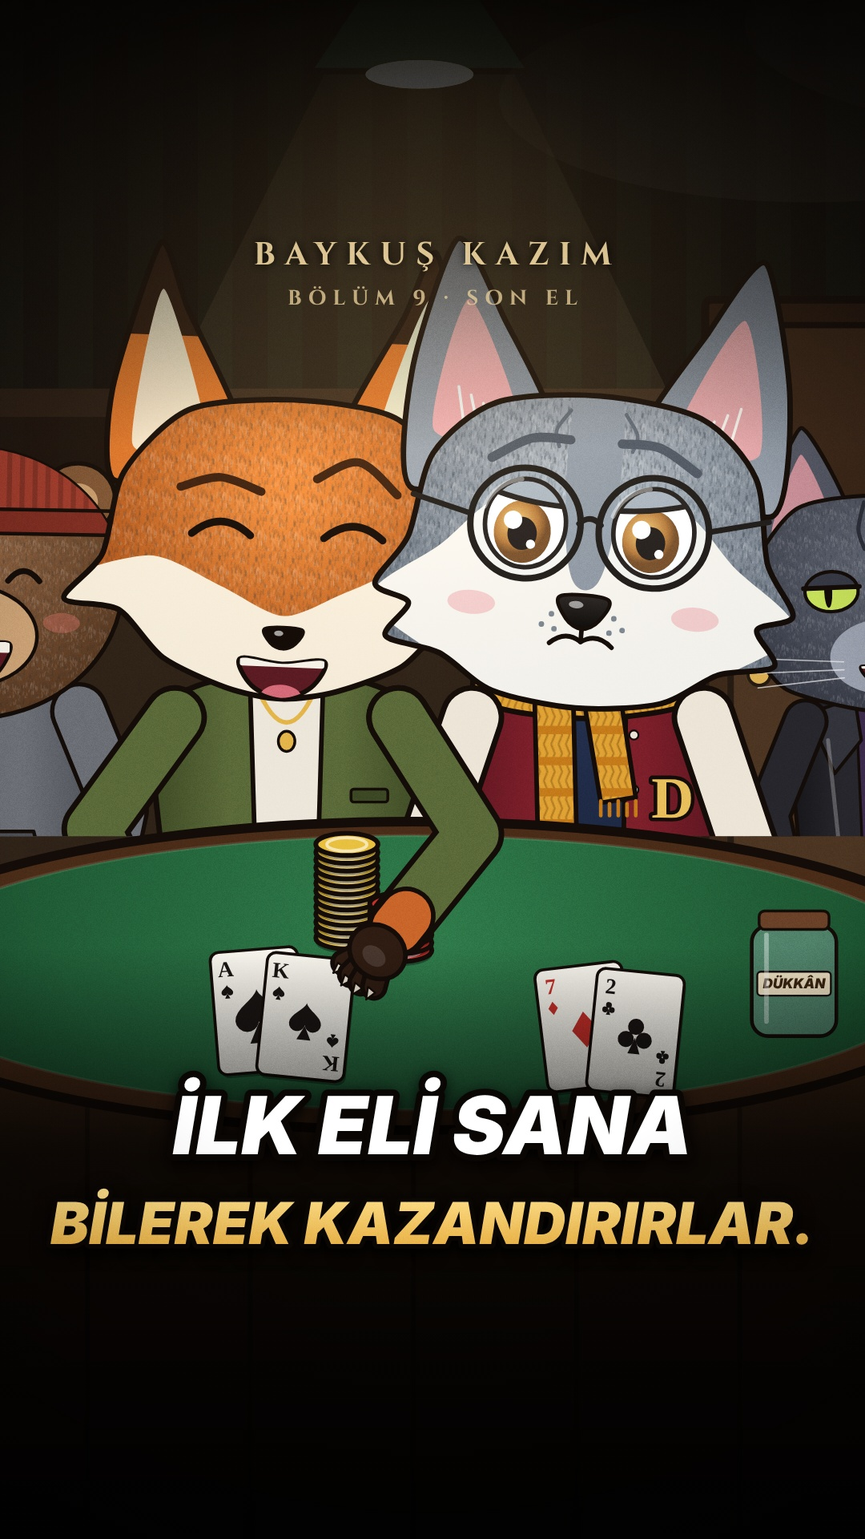
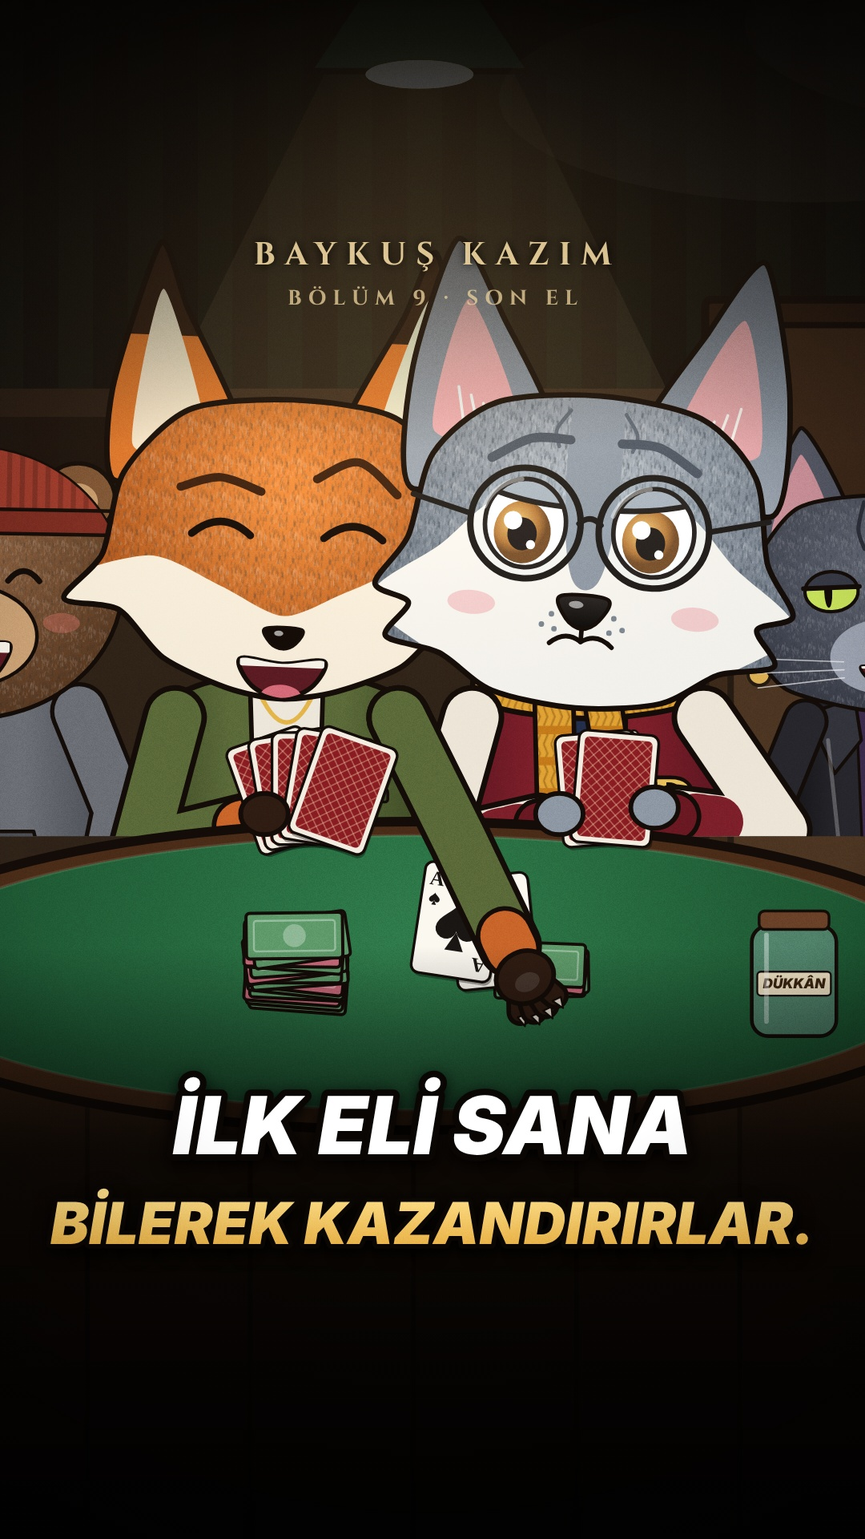
Son El: kıraathane usulü oyun (kartlar elde yelpaze, sırayla ortaya atılır, masada kâğıt para); kapak güncellendi; müziksiz ana sürüm
Claude-Session: https://claude.ai/code/session_01TWA48h9Ztcdy2RcNUnCxUo

Changed region(s): [[0.0611, 0.4688, 0.9472, 0.7188]]

diff --git a/ortak/ara-sahneler-8.js b/ortak/ara-sahneler-8.js
@@ -74,75 +74,115 @@ function cardTable(x = 360, y = 930, rx = 360) {
   c.save(); c.globalAlpha = .12; ell(x, y - 2, rx * .92, rx * .24, null, '#e8e0c8', 2); c.restore();
 }
 
-// ---------- masa düzeni: Tilki (solda) ve Demir (sağda) masanın arkasında. Kollar eklem çözümüyle masaya uzanır ----------
-// Bedenler masanın uzak kenarında kesilir; masaya uzanan kollar masa çizildikten sonra yeniden çizilir (çuhanın üstünde görünsün).
+// ---------- masa düzeni (kıraathane usulü): Tilki solda, Demir sağda, masanın arkasında. Kartlar ELDE yelpaze;
+// sırası gelen kartını ortadaki yığına açık atar. Masada kâğıt para. Kollar eklem çözümüyle; masaya uzanan kol çuhanın üstünde çizilir.
 const MASA = { TX: 280, DX: 470, Y: 1085, SC: .58, EDGE: 842 };
 const toL = (X0, x, y) => ({ x: (x - X0) / MASA.SC, y: (y - MASA.Y) / MASA.SC });   // dünya → karakter yerel
+const PILE = [398, 898], POT = [440, 930];                                         // ortadaki kart yığını ve para
+const FAN = { demir: { L: [452, 832], R: [512, 828], c: [482, 812] }, tilki: { L: [266, 832], R: [326, 828], c: [296, 812] } };
+// Kâğıt para destesi (₺): n adet, hafif dağınık
+function cashPile(x, y, n, sc = 1) {
+  for (let i = 0; i < n; i++) { const r = (hash(i * 3 + x) - .5) * .3, yy = y - i * 3.2 * sc;
+    c.save(); c.translate(x + (hash(i + x) - .5) * 8 * sc, yy); c.rotate(r); c.scale(sc, sc);
+    rr(-38, -18, 76, 36, 3, i % 3 === 2 ? '#c96a7a' : '#5f9a6a', OL, 2.5); rr(-32, -12, 64, 24, 2, null, 'rgba(255,255,255,.35)', 1.5); ell(0, 0, 9, 9, 'rgba(255,255,255,.3)', null); c.restore(); }
+}
+// Elde tutulan kart yelpazesi (arkası bize dönük)
+function cardFan(cx, cy, n, sc = .42, spread = .17) {
+  for (let j = 0; j < n; j++) { const a = (j - (n - 1) / 2) * spread; playCard(cx + Math.sin(a) * 70 * sc * 2, cy - Math.cos(a) * 26 * sc * 2 + 26 * sc * 2, a, sc, null); }
+}
+// Atılan kart: elden (x0,y0) yığına (PILE) uçar; f 0..1; açık yüzüyle düşer
+function flyCard(x0, y0, f, face, rot0 = 0, rot1 = 0, dx = 0, dy = 0) {
+  const e = ease(f), x = lerp(x0, PILE[0] + dx, e), y = lerp(y0, PILE[1] + dy, e) - Math.sin(f * PI) * 40;
+  playCard(x, y, lerp(rot0, rot1, e) + Math.sin(f * PI) * .6, lerp(.44, .42, e), f > .45 ? face : null);
+}
 function masaKur(t, o) {
   backRoom(t);
+  const F = o.fans || {};
+  // kol hedefleri: yelpaze tutan patiler göğüs/masa kenarı hizasında; o.demirL/o.tilkiR verilirse (atış/çekiş) onlar
+  const DLt = o.demirL || (F.demir ? Object.assign(toL(MASA.DX, ...FAN.demir.L), { hand: 'relax' }) : { x: -148, y: -272, hand: 'relax' });
+  const DRt = o.demirR || (F.demir ? Object.assign(toL(MASA.DX, ...FAN.demir.R), { hand: 'relax' }) : { x: 148, y: -272, hand: 'relax' });
+  const TLt = F.tilki ? Object.assign(toL(MASA.TX, ...FAN.tilki.L), { hand: 'relax' }) : { x: -150, y: -300, hand: 'relax' };
+  const TRt = o.tilkiR || (F.tilki ? Object.assign(toL(MASA.TX, ...FAN.tilki.R), { hand: 'relax' }) : { x: 150, y: -300, hand: 'relax' });
   c.save(); c.beginPath(); c.rect(-1000, -300, 2720, MASA.EDGE + 300); c.clip();
   if (o.crowd !== false) {
     c.save(); c.translate(80, 1010); c.scale(.45, .45); gangBody('ayi', { t, laugh: o.ayi || 0, lookX: .5, tilt: Math.sin(t * 6) * .03 * (o.ayi || 0) }); c.restore();
     c.save(); c.translate(655, 1000); c.scale(.42, .42); gangBody('kedi', { t, laugh: o.kedi || 0, lookX: -.5, tilt: -.04 }); c.restore();
   }
-  const TR = o.tilkiR || { x: 150, y: -300, hand: 'relax' }, TL = { x: -150, y: -300, hand: 'relax' };
-  c.save(); c.translate(MASA.TX, MASA.Y); c.scale(MASA.SC, MASA.SC); gangBody('tilki', { t, laugh: o.tl ?? .25, lookX: o.tlook ?? .6, lookY: .2, tilt: .04, L: TL, R: TR }); c.restore();
-  const DR = o.demirR || { x: 148, y: -272, hand: 'relax' }, DL = o.demirL || { x: -148, y: -272, hand: 'relax' };
-  c.save(); c.translate(MASA.DX, MASA.Y); c.scale(MASA.SC, MASA.SC); drawWolf(Object.assign({}, o.demir, { L: DL, R: DR })); c.restore();
+  c.save(); c.translate(MASA.TX, MASA.Y); c.scale(MASA.SC, MASA.SC); gangBody('tilki', { t, laugh: o.tl ?? .25, lookX: o.tlook ?? .6, lookY: .2, tilt: .04, L: TLt, R: TRt }); c.restore();
+  c.save(); c.translate(MASA.DX, MASA.Y); c.scale(MASA.SC, MASA.SC); drawWolf(Object.assign({}, o.demir, { L: DLt, R: DRt })); c.restore();
   c.restore();
   cardTable();
   if (o.items) o.items();
   // masaya uzanan kollar çuhanın üstünde
-  if (o.tilkiR) { c.save(); c.translate(MASA.TX, MASA.Y); c.scale(MASA.SC, MASA.SC); gangArm(GANG.tilki, 1, TR, GANG.tilki.sw); c.restore(); }
-  if (o.demirR) { c.save(); c.translate(MASA.DX, MASA.Y); c.scale(MASA.SC, MASA.SC); wolfArm(1, DR); c.restore(); }
-  if (o.demirL) { c.save(); c.translate(MASA.DX, MASA.Y); c.scale(MASA.SC, MASA.SC); wolfArm(-1, DL); c.restore(); }
+  const onTable = tg => tg.y > (MASA.EDGE - MASA.Y) / MASA.SC + 8;
+  // yalnızca bilerek masaya uzatılan kollar (atış/çekiş) yeniden çizilir; boştaki kollar masanın arkasında kalır
+  if (o.tilkiR && onTable(TRt)) { c.save(); c.translate(MASA.TX, MASA.Y); c.scale(MASA.SC, MASA.SC); gangArm(GANG.tilki, 1, TRt, GANG.tilki.sw); c.restore(); }
+  if (o.demirL && onTable(DLt)) { c.save(); c.translate(MASA.DX, MASA.Y); c.scale(MASA.SC, MASA.SC); wolfArm(-1, DLt); c.restore(); }
+  if (o.demirR && onTable(DRt)) { c.save(); c.translate(MASA.DX, MASA.Y); c.scale(MASA.SC, MASA.SC); wolfArm(1, DRt); c.restore(); }
+  // eldeki yelpazeler (patiler kartları önden kavrar)
+  if (F.tilki) { cardFan(...FAN.tilki.c, F.tilki); for (const [k2, pt] of [['L', TLt], ['R', TRt]]) if (!onTable(pt) && !(k2 === 'R' && o.tilkiR)) { const w = FAN.tilki[k2]; ell(w[0], w[1] - 4, 15, 13, GANG.tilki.paw, OL, 3); } }
+  if (F.demir) { cardFan(...FAN.demir.c, F.demir); for (const [k2, pt] of [['L', DLt], ['R', DRt]]) if (!onTable(pt) && !(k2 === 'L' && o.demirL) && !(k2 === 'R' && o.demirR)) { const w = FAN.demir[k2]; ell(w[0], w[1] - 4, 15, 13, WOLF_C.paw, OL, 3); } }
   if (o.over) o.over();
 }
-const POT = [418, 905];   // Tilki'nin sağ kolu ve Demir'in sol kolu dirsek bükerek yetişir
+// atış kolu: ph 0..1 (gidiş-dönüş), elden yığına
+const throwArm = (X0, from, ph, hand = 'relax') => Object.assign(toL(X0, lerp(from[0], PILE[0] + 10, Math.sin(ph * PI)), lerp(from[1], PILE[1] + 6, Math.sin(ph * PI))), { hand });
 
-// ---------- 0) AÇILIŞ (sessiz): gece 01:20, arka oda. Tilki kart dağıtır, Demir dükkân kavanozunu masaya koyar ----------
+// ---------- 0) AÇILIŞ (sessiz): gece 01:20, arka oda. Demir dükkân parasını masaya koyar; Tilki kartları dağıtır, Demir elini toplar ----------
 SCENES.kart_acilis = S => {
   const t = S.t, lt = S.lt;
   cam(lerp(360, 380, ss(0, 7, lt)), lerp(820, 860, ss(0, 7, lt)), lerp(1.0, 1.28, ease(ss(0, 7, lt))));
-  // Tilki dağıtır: sağ patisi önünde ileri geri (her kart bir savuruş)
-  const deal = [1.0, 1.7, 2.4], swing = lt < 3.0 ? Math.max(0, Math.sin(((lt - .8) % .7) / .7 * PI)) : 0;
-  const tilkiR = toL(MASA.TX, lerp(340, 372, swing), lerp(905, 898, swing)); tilkiR.hand = 'grab';
-  // Demir kavanozu taşır ve masaya bırakır
-  const JAR = [592, 940], lift = ease(ss(3.6, 4.6, lt)), back = ss(5.0, 5.8, lt);
+  // 1) Demir kavanozu sağ patisiyle masaya bırakır (0.8–2.2)
+  const JAR = [592, 940], lift = ease(ss(.8, 1.7, lt)), back = ss(1.9, 2.4, lt);
   const jarPos = [lerp(560, JAR[0], lift), lerp(925, JAR[1], lift) - Math.sin(lift * PI) * 40];
-  const demirR = lt > 3.5 && back < 1 ? Object.assign(toL(MASA.DX, lerp(jarPos[0], 600, back), lerp(jarPos[1] - 70, 925, back)), { hand: 'relax' }) : null;
-  masaKur(t, { tilkiR, demirR, tl: .3, ayi: 0, kedi: 0,
-    demir: demirPose('calm', { t, talk: 0, lookX: lt < 3.3 ? -.5 : .3, lookY: .4, blink: (lt % 3.9 < .14) ? 1 : 0, mouth: 4 }),
+  const demirR = lt > .7 && back < 1 ? Object.assign(toL(MASA.DX, lerp(jarPos[0], 512, back), lerp(jarPos[1] - 70, 828, back)), { hand: 'relax' }) : null;
+  // 2) Tilki elindeki desteden Demir'e 5 kart atar (2.5–4.3); 3) Demir kartları toplayıp yelpaze yapar (4.6–5.3)
+  const deal = [2.5, 2.86, 3.22, 3.58, 3.94], picked = ss(4.6, 5.3, lt), dealing = lt > 2.4 && lt < 4.4;
+  const flick = dealing ? Math.max(0, Math.sin(((lt - 2.5) % .36) / .36 * PI)) : 0;
+  const tilkiR = dealing ? Object.assign(toL(MASA.TX, lerp(326, 352, flick), lerp(828, 846, flick)), { hand: 'relax' }) : null;
+  masaKur(t, { demirR, tilkiR, tl: .3, ayi: 0, kedi: 0, fans: { tilki: lt < 2.4 ? 0 : 0, demir: picked > .5 ? 5 : 0 },
+    demir: demirPose('calm', { t, talk: 0, lookX: lt < 2.4 ? .3 : -.4, lookY: .4, blink: (lt % 3.9 < .14) ? 1 : 0, mouth: 4 }),
     items: () => {
-      chipStack(318, 908, 6, '#c8302a', .8); chipStack(286, 920, 4, '#1a1614', .8);
-      deal.forEach((d0, i) => { const f = ease(ss(d0, d0 + .5, lt)); if (lt > d0) playCard(lerp(372, 470 + i * 34, f), lerp(895, 960, f) - Math.sin(f * PI) * 30, lerp(-.6, -.12 + i * .12, f), .48, null); });
+      cashPile(286, 938, 6, .8); cashPile(540, 936, 5, .8);
       moneyJar(jarPos[0], jarPos[1], 1, .62);
-    } });
+      deal.forEach((d0, i) => { const f = ease(ss(d0, d0 + .3, lt)); if (lt > d0 && picked < .5) playCard(lerp(340, 470 + (i - 2) * 6, f) + (picked > 0 ? (482 - 470) * picked : 0), lerp(832, 905 - i * 2, f) - Math.sin(f * PI) * 26 - picked * 80, lerp(-.5, (i - 2) * .05, f), .42, null); });
+    },
+    over: () => { if (lt < 4.4) { playCard(330, 822, -.15, .44, null); playCard(333, 819, -.12, .44, null); ell(326, 824, 15, 13, GANG.tilki.paw, OL, 3); } } }); // Tilki'nin destesi
   letterbox(1, 150);
   typeText('GECE 01:20 · ARKA ODA', ss(.4, 2.0, lt), 40, 1222, '600 22px Cinzel,Georgia,serif', 'rgba(236,224,200,.9)');
 };
 
-// ---------- 1) MASA: 'kazan' ilk el (pot Demir'e kayar, ekip alkışlar); 'kaybet' bir el daha… (Demir iter, Tilki süpürür) ----------
+// ---------- 1) MASA: 'kazan' ilk el (Demir'in kartı büyük, para ona gelir); 'kaybet' her elde Tilki üstüne daha büyüğünü atar ----------
 SCENES.masa = S => {
-  const t = S.t, k = S.k, lt = S.lt, lose = S.phase === 'kaybet';
+  const t = S.t, k = S.k, lose = S.phase === 'kaybet';
   cam(lerp(360, 370, k), lerp(820, 800, k), lerp(1.12, 1.2, ease(k)));
-  const win = lose ? 0 : ss(.15, .45, k), drain = lose ? ss(.05, .9, k) : 0;
-  // kaybet: 2 sn'lik döngü — Demir fiş iter (0–.35), Tilki süpürür (.5–.85)
-  const cyc = lose ? (S.pt % 2) / 2 : 0, push = lose ? Math.sin(ss(0, .35, cyc) * PI) : 0, sweep = lose ? Math.sin(ss(.45, .85, cyc) * PI) : 0;
-  const demirL = lose && push > .02 ? Object.assign(toL(MASA.DX, lerp(480, POT[0] + 22, push), lerp(912, POT[1] + 4, push)), { hand: 'relax' }) : (win > .2 && win < .95 ? Object.assign(toL(MASA.DX, lerp(POT[0] + 26, 488, win), lerp(POT[1], 910, win)), { hand: 'relax' }) : null);
-  const tilkiR = lose && sweep > .02 ? Object.assign(toL(MASA.TX, lerp(350, POT[0] - 12, sweep), lerp(912, POT[1] + 2, sweep)), { hand: 'grab' }) : null;
-  const mood = lose ? (drain > .5 ? 'sad' : 'worry') : (win > .5 ? 'happy' : 'calm');
-  masaKur(t, { demirL, tilkiR, tl: lose ? .3 + .2 * Math.abs(Math.sin(t * 4)) : .25 + win * .2,
+  let demirL = null, tilkiR = null, pile = [], potTo = 0, drain = 0, mood, win = 0;
+  if (!lose) { // Tilki önce atar, Demir büyük kartla keser, para Demir'e
+    const tTh = ss(.08, .26, k), dTh = ss(.3, .48, k); win = ss(.52, .72, k);
+    if (tTh > 0 && tTh < 1) tilkiR = throwArm(MASA.TX, FAN.tilki.R, tTh);
+    if (dTh > 0 && dTh < 1) demirL = throwArm(MASA.DX, FAN.demir.L, dTh);
+    if (win > 0 && win < 1) demirL = Object.assign(toL(MASA.DX, lerp(POT[0] + 10, 520, win), lerp(POT[1], 930, win)), { hand: 'relax' });
+    pile = [[tTh, FAN.tilki.c, ['K', 'c'], -.2, .1, -14, 0], [dTh, FAN.demir.c, ['A', 'h'], .2, -.12, 14, 6]];
+    mood = win > .5 ? 'happy' : (dTh > .5 ? 'hope' : 'calm');
+  } else { // 2.4 sn'lik eller: Demir atar → Tilki üstüne büyüğünü atar → Tilki parayı çeker
+    drain = ss(.05, .9, k); const cyc = (S.pt % 2.4) / 2.4, n = Math.floor(S.pt / 2.4);
+    const dTh = ss(.04, .26, cyc), tTh = ss(.32, .54, cyc), pull = ss(.6, .92, cyc);
+    if (dTh > 0 && dTh < 1) demirL = throwArm(MASA.DX, FAN.demir.L, dTh);
+    if (tTh > 0 && tTh < 1) tilkiR = throwArm(MASA.TX, FAN.tilki.R, tTh);
+    if (pull > 0 && pull < 1) tilkiR = Object.assign(toL(MASA.TX, lerp(POT[0] - 6, 330, pull), lerp(POT[1], 934, pull)), { hand: 'grab' });
+    const dc = [['7', 'd'], ['9', 'c'], ['5', 'h'], ['8', 's']][n % 4], tc = [['K', 's'], ['A', 'd'], ['Q', 'h'], ['A', 's']][n % 4];
+    pile = [[dTh, FAN.demir.c, dc, .2, -.1, 12, 4], [tTh, FAN.tilki.c, tc, -.2, .15, -10, -2]];
+    potTo = pull; mood = drain > .5 ? 'sad' : 'worry';
+  }
+  masaKur(t, { demirL, tilkiR, fans: { tilki: 5, demir: 5 }, tl: lose ? .3 + .2 * Math.abs(Math.sin(t * 4)) : .25 + win * .2,
     ayi: lose ? .55 + .3 * Math.abs(Math.sin(t * 6)) : win * (.5 + .3 * Math.abs(Math.sin(t * 7))), kedi: lose ? .25 : win * .6,
-    demir: demirPose(mood, { t, talk: S.talk.demir, lookX: -.5, lookY: lose ? .5 : .25, blink: (t % 3.7 < .14) ? 1 : 0, tilt: lose ? .06 * drain : -.04 * win, mouth: lose ? lerp(0, -12, drain) : lerp(6, 24, win) }),
+    demir: demirPose(mood, { t, talk: S.talk.demir, lookX: -.45, lookY: .55, blink: (t % 3.7 < .14) ? 1 : 0, tilt: lose ? .06 * drain : -.04 * win, mouth: lose ? lerp(0, -12, drain) : lerp(6, 24, win) }),
     items: () => {
-      playCard(468, 962, -.12, .46, lose ? ['7', 'd'] : ['A', 'h']); playCard(500, 966, .1, .46, lose ? ['2', 'c'] : ['A', 's']);
-      playCard(262, 952, -.08, .46, lose ? ['A', 's'] : ['9', 'c']); playCard(292, 956, .1, .46, lose ? ['K', 's'] : ['4', 'd']);
-      const px = lose ? lerp(POT[0], 330, sweep) : lerp(POT[0], 500, ease(win)), py = lose ? POT[1] + 6 * sweep : lerp(POT[1], 912, win);
-      chipStack(px, py, lose ? Math.max(2, Math.round(lerp(8, 3, drain))) : 7, '#c8302a', .7); chipStack(px + 28, py + 8, lose ? 3 : 5, '#2a5a9a', .7);
-      chipStack(318, 906, lose ? Math.round(lerp(4, 12, drain)) : 4, '#e8c040', .7);                         // Tilki'nin kasası büyür
+      cashPile(lerp(286, 286, 0), 938, lose ? Math.round(lerp(5, 14, drain)) : 5, .8);                                  // Tilki'nin parası
+      cashPile(540, 936, lose ? Math.max(1, Math.round(lerp(6, 1, drain))) : Math.round(lerp(4, 9, win)), .8);           // Demir'in parası
+      const px = lose ? lerp(POT[0], 300, potTo) : lerp(POT[0], 530, win), py = lose ? lerp(POT[1], 936, potTo) : lerp(POT[1], 930, win);
+      if (lose ? potTo < .98 : win < .98) cashPile(px, py, 4, .75);                                                     // ortadaki bahis
       moneyJar(600, 968, lose ? 1 - drain : 1, .58);
-      if (!lose && win > .2 && win < 1) for (let i = 0; i < 8; i++) { const a = i / 8 * TAU + t; ell(500 + Math.cos(a) * 60 * win, 900 + Math.sin(a) * 30 * win, 4, 4, `rgba(255,230,150,${1 - win})`, null); }
+      for (const [f, fr, face, r0, r1, dx, dy] of pile) if (f > 0) flyCard(fr[0], fr[1], f, face, r0, r1, dx, dy);
     } });
 };
 
@@ -176,49 +216,47 @@ SCENES.olta = S => {
   c.save(); c.globalCompositeOperation = 'lighter'; ell(360, 640, 520, 520, rg(360, 640, 100, 520, [[0, 'rgba(0,0,0,0)'], [1, 'rgba(0,0,0,0)']]), null); c.restore();
 };
 
-// ---------- 3) BİR EL DAHA: masaya yakın; Demir fişleri iter, kartlar açılır, Tilki süpürür. 3 kez, sayaç azalır ----------
+// ---------- 3) BİR EL DAHA: masaya yakın; her elde Demir atar, Tilki üstüne büyüğünü atar, parayı çeker. 3 el, sayaç azalır ----------
 SCENES.bir_el_daha = S => {
   const t = S.t, per = S.pd / 3, i = Math.min(2, Math.floor(S.pt / per)), ph = cl((S.pt - i * per) / per, 0, 1);
   cam(380, 860, 1.5);
-  const push = Math.sin(ss(.05, .35, ph) * PI), flip = ss(.35, .5, ph), sweep = ease(ss(.58, .88, ph)), reachT = Math.sin(ss(.55, .9, ph) * PI);
-  const money = [12000, 6000, 1500, 0], cur = sweep > .5 ? money[i + 1] : money[i];
-  const potX = lerp(lerp(486, POT[0] + 8, ss(.05, .3, ph)), 330, sweep), potY = POT[1] + 4;
-  const demirL = push > .02 ? Object.assign(toL(MASA.DX, potX + 30, potY + 2), { hand: 'relax' }) : null;
-  const tilkiR = reachT > .02 ? Object.assign(toL(MASA.TX, Math.max(338, potX - 16), potY + 4), { hand: 'grab' }) : null;
-  masaKur(t, { demirL, tilkiR, tl: .35 + .25 * sweep, ayi: .5, kedi: .2,
-    demir: demirPose(i < 2 ? 'worry' : 'sad', { t, talk: 0, lookX: -.3, lookY: .6, blink: 0, tilt: .04 + i * .03, mouth: -4 - i * 4 }),
+  const dTh = ss(.04, .26, ph), tTh = ss(.32, .54, ph), pull = ss(.62, .9, ph);
+  const money = [12000, 6000, 1500, 0], cur = pull > .5 ? money[i + 1] : money[i];
+  let demirL = null, tilkiR = null;
+  if (dTh > 0 && dTh < 1) demirL = throwArm(MASA.DX, FAN.demir.L, dTh);
+  if (tTh > 0 && tTh < 1) tilkiR = throwArm(MASA.TX, FAN.tilki.R, tTh);
+  if (pull > 0 && pull < 1) tilkiR = Object.assign(toL(MASA.TX, lerp(POT[0] - 6, 330, pull), lerp(POT[1], 934, pull)), { hand: 'grab' });
+  masaKur(t, { demirL, tilkiR, fans: { tilki: 5, demir: 5 - i }, tl: .35 + .25 * pull, ayi: .5, kedi: .2,
+    demir: demirPose(i < 2 ? 'worry' : 'sad', { t, talk: 0, lookX: -.3, lookY: .65, blink: 0, tilt: .04 + i * .03, mouth: -4 - i * 4 }),
     items: () => {
-      const tc = [['A', 's'], ['K', 'h'], ['Q', 'd']][i], tc2 = [['A', 'd'], ['K', 'c'], ['Q', 's']][i], dc = [['7', 'c'], ['3', 'd'], ['2', 's']][i], dc2 = [['2', 'h'], ['5', 'c'], ['4', 'h']][i];
-      playCard(262, 952, -.08, .46, flip > .5 ? tc : null); playCard(292, 956, .1, .46, flip > .5 ? tc2 : null);
-      playCard(468, 962, -.12, .46, flip > .5 ? dc : null); playCard(500, 966, .1, .46, flip > .5 ? dc2 : null);
-      const n = [6, 5, 3][i]; chipStack(potX, potY, n, '#e8c040', .75); chipStack(potX + 30, potY + 8, Math.max(1, n - 2), '#c8302a', .75);
-      chipStack(318, 906, 6 + i * 3, '#e8c040', .7);
-      moneyJar(600, 968, [.66, .33, .08][i] * (1 - .5 * sweep), .58);
+      cashPile(286, 938, 6 + i * 3, .8); cashPile(540, 936, 3 - i, .8);
+      if (pull < .98) cashPile(lerp(POT[0], 300, pull), lerp(POT[1], 936, pull), 4 - i, .75);
+      moneyJar(600, 968, [.66, .33, .08][i] * (1 - .5 * pull), .58);
+      const dc = [['7', 'c'], ['3', 'd'], ['2', 's']][i], tc = [['A', 's'], ['K', 'h'], ['Q', 'd']][i];
+      if (dTh > 0) flyCard(...FAN.demir.c, dTh, dc, .2, -.1, 12, 4);
+      if (tTh > 0) flyCard(...FAN.tilki.c, tTh, tc, -.2, .15, -10, -2);
     },
-    over: () => { // para sayacı (kırmızı dijital), masanın üstünde
-      const sx = 255, sy = 1000, txt = '₺ ' + cur.toLocaleString('tr');   // masanın önünde (yüzleri kapatmasın)
+    over: () => { // para sayacı (kırmızı dijital), masanın önünde
+      const sx = 255, sy = 1000, txt = '₺ ' + cur.toLocaleString('tr');
       rr(sx, sy, 250, 62, 10, '#121418', OL, 4); c.font = '700 36px "Courier New",monospace'; c.fillStyle = cur === 0 ? '#ff3a2a' : '#ff6a5a'; c.textAlign = 'center'; c.fillText(txt, sx + 125, sy + 44);
-      if (sweep > .5 && sweep < 1) { c.save(); c.globalAlpha = 1 - sweep; c.font = '800 30px Inter,Arial'; c.fillStyle = '#ff5a4a'; c.fillText('−' + (money[i] - money[i + 1]).toLocaleString('tr'), sx + 125, sy + 100 + 26 * sweep); c.restore(); }
+      if (pull > .5 && pull < 1) { c.save(); c.globalAlpha = 1 - pull; c.font = '800 30px Inter,Arial'; c.fillStyle = '#ff5a4a'; c.fillText('−' + (money[i] - money[i + 1]).toLocaleString('tr'), sx + 125, sy + 100 + 26 * pull); c.restore(); }
     } });
 };
 
-// ---------- 4) KARTLARIN: elindeki kötü kartlar; Demir onları masaya bırakıp Tilki'nin tarafına sürer, Tilki toplar ----------
+// ---------- 4) KARTLARIN: Demir elindeki kartlara bakar; sonra hepsini kapalı olarak Tilki'nin önüne fırlatır, Tilki toplar ----------
 SCENES.kart_el = S => {
   const t = S.t, k = S.k;
   cam(390, 860, 1.42);
-  const fold = ease(ss(.3, .45, k)), down = ease(ss(.4, .55, k)), slide = ease(ss(.55, .75, k)), take = ease(ss(.72, .92, k));
-  // eller: önce göğüs hizasında yelpaze tutar; sonra masaya indirip itti
-  const hold = 1 - down, deckX = lerp(lerp(482, 460, down), 372, slide) - take * 34, deckY = lerp(lerp(800, 912, down), 908, slide);
-  const demirR = hold > .5 ? Object.assign(toL(MASA.DX, 512, 828), { hand: 'relax' }) : null;
-  const demirL = hold > .5 ? Object.assign(toL(MASA.DX, 452, 832), { hand: 'relax' }) : (slide < .98 ? Object.assign(toL(MASA.DX, deckX + 26, deckY + 4), { hand: 'relax' }) : null);
-  const tilkiR = take > .02 ? Object.assign(toL(MASA.TX, deckX - 22, deckY + 4), { hand: 'grab' }) : null;
-  masaKur(t, { demirR, demirL, tilkiR, tl: .35, ayi: .3, kedi: .1,
-    demir: demirPose('sad', { t, talk: 0, lookX: -.2, lookY: .6, blink: (t % 4 < .14) ? 1 : 0, tilt: .05, mouth: -8 }),
-    items: () => { chipStack(318, 906, 12, '#e8c040', .7); moneyJar(600, 968, 0, .58); },
-    over: () => {
-      const hand = [['2', 'c'], ['7', 'd'], ['3', 's'], ['9', 'h'], ['4', 'c']];
-      hand.forEach((f, j) => { const a = (j - 2) * .2 * (1 - fold); playCard(deckX + Math.sin(a) * 80 * (1 - fold), deckY - Math.cos(a) * 26 * (1 - fold) + 20 * (1 - fold), a, .5 - .06 * down, fold > .6 ? null : f); });
-      if (hold > .5) { c.save(); c.translate(MASA.DX, MASA.Y); c.scale(MASA.SC, MASA.SC); wolfPaw((512 - MASA.DX) / MASA.SC, (828 - MASA.Y) / MASA.SC, PI / 2, 'relax'); wolfPaw((452 - MASA.DX) / MASA.SC, (832 - MASA.Y) / MASA.SC, PI / 2, 'relax'); c.restore(); } // kartları tutan patiler önde
+  const look = ss(0, .25, k), toss = ss(.4, .58, k), take = ss(.68, .9, k);
+  const tossArm = toss > 0 && toss < 1 ? Object.assign(toL(MASA.DX, lerp(FAN.demir.L[0], 352, Math.sin(toss * PI * .5)), lerp(FAN.demir.L[1], 906, Math.sin(toss * PI * .5))), { hand: 'open' }) : null;
+  const tilkiR = take > 0 && take < 1 ? Object.assign(toL(MASA.TX, lerp(330, 344, Math.sin(take * PI)), lerp(828, 908, Math.sin(take * PI))), { hand: 'grab' }) : null;
+  masaKur(t, { demirL: tossArm, tilkiR, fans: { tilki: 5, demir: toss > .05 ? 0 : 5 }, tl: .35 + .3 * take, ayi: .35, kedi: .1,
+    demir: demirPose('sad', { t, talk: 0, lookX: lerp(.05, -.35, toss), lookY: lerp(.85, .5, toss), blink: (t % 4 < .14) ? 1 : 0, tilt: .06, mouth: -8, nod: look * .4 * (1 - toss) }),
+    items: () => {
+      cashPile(286, 938, 15, .8); moneyJar(600, 968, 0, .58);
+      if (toss > .05) { // fırlatılan kartlar: yelpazeden Tilki'nin önüne savrulur, kapalı
+        for (let j = 0; j < 5; j++) { const f = ease(cl((toss - j * .04) / .9, 0, 1)), g = take; playCard(lerp(482 + (j - 2) * 14, 340 + (j - 2) * 16, f) - g * 30, lerp(812, 900 + (hash(j) - .5) * 20, f) - Math.sin(f * PI) * 50 + g * 20, lerp((j - 2) * .17, (hash(j + 3) - .5) * 1.2, f), .42, null); }
+      }
     } });
 };
 

diff --git a/banner/kapak_son_el.html b/banner/kapak_son_el.html
@@ -28,10 +28,10 @@
   const lights = () => { c.save(); c.setTransform(1, 0, 0, 1, 0, 0); c.globalCompositeOperation = 'lighter'; for (const g of LIGHTS) { c.fillStyle = rg(g.x, g.y, 0, g.r, [[0, g.col], [1, 'rgba(0,0,0,0)']]); c.fillRect(g.x - g.r, g.y - g.r, g.r * 2, g.r * 2); } c.restore(); LIGHTS = []; };
   // arka oda, kart masası: Tilki sinsi gülüyor, Demir'in dükkân kavanozu boş, fişler Tilki'de
   c.setTransform(1.5, 0, 0, 1.5, 0, 0); cam(372, 800, 1.32);
-  masaKur(t, { tl: .55, ayi: .7, kedi: .3, tilkiR: Object.assign(toL(MASA.TX, 346, 904), { hand: 'grab' }),
-    demir: demirPose('sad', { t, talk: 0, lookX: -.25, lookY: .55, blink: 0, tilt: .08, mouth: -12, lid: .2, brow: -.55 }),
-    items: () => { playCard(262, 952, -.08, .46, ['A', 's']); playCard(292, 956, .1, .46, ['K', 's']); playCard(468, 962, -.12, .46, ['7', 'd']); playCard(500, 966, .1, .46, ['2', 'c']);
-      chipStack(318, 906, 13, '#e8c040', .7); chipStack(352, 914, 7, '#c8302a', .7); moneyJar(600, 968, 0, .58); } });
+  masaKur(t, { tl: .55, ayi: .7, kedi: .3, fans: { tilki: 5, demir: 2 }, tilkiR: Object.assign(toL(MASA.TX, POT[0] - 10, POT[1]), { hand: 'grab' }),
+    demir: demirPose('sad', { t, talk: 0, lookX: -.25, lookY: .6, blink: 0, tilt: .08, mouth: -12, lid: .2, brow: -.55 }),
+    items: () => { cashPile(286, 938, 14, .8); cashPile(POT[0], POT[1], 4, .75); moneyJar(600, 968, 0, .58);
+      playCard(PILE[0] + 12, PILE[1] + 4, -.1, .42, ['7', 'd']); playCard(PILE[0] - 10, PILE[1] - 2, .15, .42, ['A', 's']); } });
   lights();
   c.setTransform(1, 0, 0, 1, 0, 0);
   c.fillStyle = lg(0, 0, 0, 560, [[0, 'rgba(6,4,3,.9)'], [1, 'rgba(6,4,3,0)']]); c.fillRect(0, 0, W, 560);

diff --git a/bolum9-son-el/story.js b/bolum9-son-el/story.js
@@ -10,8 +10,8 @@ const EPISODE = {
   intro: 6.8, openShot: 'kart_acilis',   // sessiz açılış: gece 01:20, arka oda, kartlar dağıtılır, dükkân kavanozu masaya konur
   tail: 7,
   sign: 'KIRAATHANE',
-  music: '../muzik/son_el_muzik.m4a',      // Kevin MacLeod "Despair and Triumph" (CC BY 4.0), 89. sn'den: yükseliş Demir'in masadan kalktığı ana denk gelir
-  musicVolume: 0.32, rainVolume: 0.03,
+  music: '../muzik/floating_in_reverie_slowed.m4a',
+  musicVolume: 0, rainVolume: 0.03,   // müziksiz ana sürüm: şarkı Instagram'da paylaşırken eklenir (ayrıca 'Floating In Reverie' sürümü üretilir)
   cast: { kazim: { x: 235, y: 985, s: .6 }, demir: { x: 490, y: 990, s: .56 } },
   story: [
     { who: 'demir', mood: 'happy', gesture: 'rest', shot: 'masa', phase: 'kazan', pause: 1.4, text: 'Abi, Tilki beni arka odadaki masaya oturttu. İlk elde paramı ikiye katladım.' },
